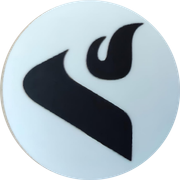
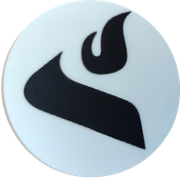
a4a86ee4-9172-4d08-adf4-5de58fbceede

diff --git a/worklog.md b/worklog.md
@@ -99,3 +99,23 @@ Stage Summary:
 - Footer logo renders (naturalWidth 64, complete) next to gold brand name; VLM confirms clean.
 - Lint clean (0 errors, 0 warnings). No page/console errors.
 - Dev server running persistently on port 3000 (HTTP 200).
+
+---
+Task ID: 12
+Agent: orchestrator (main)
+Task: Straighten the logo — make the symbol upright/vertical and centered symmetrically inside the circle, keeping the same minimal style. Applies to both the website logo and favicon.
+
+Work Log:
+- Analyzed the original logo via VLM: symbol tilted ~11° clockwise, slightly off-center.
+- Measured empirically via PCA on dark pixels: centroid offset from circle center was dx=-10.2px (-1.9% of r), dy=16px (2.9% of r); eigenvalue ratio 1.12 (near-isotropic, so PCA angle unreliable — trusted VLM's ~11° visual estimate).
+- Wrote scripts/straighten-logo.cjs (sharp): (1) detect white circle bbox + crop square centered on it; (2) build circular alpha mask (2px aa) for transparent corners; (3) rotate emblem -11° (counter-clockwise) with transparent background — the circle is rotationally symmetric so stays inscribed while the symbol straightens; (4) recrop to side x side centered; (5) compute dark-pixel centroid and composite onto a fresh transparent canvas at the offset needed to center the symbol exactly; (6) re-apply circular alpha mask to clean edges; (7) emit 4 sizes (logo-mark 512, logo-mark-2x 96, icon 256, apple-icon 180).
+- Fixed a buffer-handling bug (PNG buffers were being passed with raw `info` options → "unsupported image format"); switched to passing PNG buffers directly to sharp() and using composite without raw.
+- Result: symbol centroid now (255.7, 255.8) vs image center (256, 256) — offset 0.3px (essentially perfect). Transparent corners preserved (21%).
+- Wiped corrupted .next cache (previous timed-out command left it half-written) and restarted dev server fresh.
+
+Stage Summary:
+- VLM confirms on logo-mark.png: upright/no tilt, symmetric/centered, clean round circle, transparent corners, minimal style preserved.
+- VLM confirms in-browser: nav logo upright + centered next to navy wordmark; footer logo upright + centered next to gold brand name.
+- Favicon served matches new icon.png exactly (51,471 bytes, hash 19be2f1a — changed from old b77f82f6).
+- Lint clean (0 errors, 0 warnings). No page/console errors.
+- Dev server running on port 3000 (HTTP 200).
